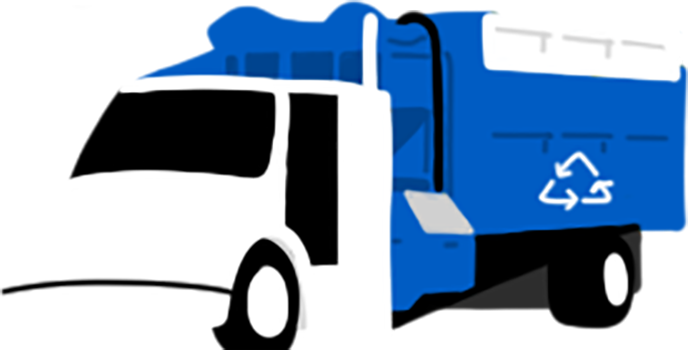
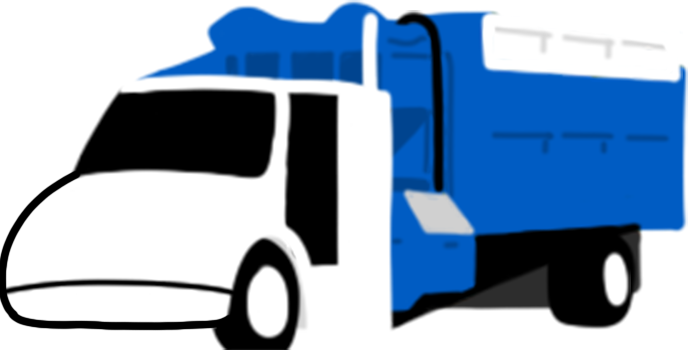
added try again screen & finished "game" functions

diff --git a/sketch.js b/sketch.js
@@ -4,6 +4,7 @@ let binR;
 let binT;
 let truckR;
 let truckT;
+let again;
 let house = true;
 let trash = false;
 let recycle = false;
@@ -11,6 +12,10 @@ let trashbin = true;
 let recyclebin = true;
 let driveR = 800;
 let driveT = 800;
+let next = 0;
+let tryagain = false;
+let yes = false;
+let no = false;
 
 function setup() {
   createCanvas(800, 600);
@@ -22,14 +27,16 @@ function preload() {
   binR = loadImage('assets/binR.png')
   binT = loadImage('assets/binT.png')
   truckT = loadImage('assets/truckT.png')
+  truckR = loadImage('assets/truckR.png')
+  again = loadImage('assets/tryagain.png')
 }
 
 function draw() {
   if (house) {
     image(curb,0,0);
-  } else { if (trash) {
+  } else { 
       image(landfill,0,0);
-    }  }
+    } 
 
   if (trashbin) {
     image(binT,326,269);
@@ -37,23 +44,67 @@ function draw() {
   if (recyclebin) {
     image(binR,221,269)
   }
-  if (recycle) {
-    driveR = driveR += 2;
-    console.log('drive')
-  }
+  
   if (trash) {
-    driveT = (driveT += 2)
-  }
-  image(truckR,250,driveR);
-  image(truckT,250,driveT);
+    driveT = (driveT - 3);}
+  if (driveT < 0) {
+    trashbin = false;}
+  if (driveT < -688) {
+    driveT = 800;
+    trash = false;
+    next++;}
+  image(truckT,driveT,250);
 
+  if (recycle) {
+    driveR = (driveR - 3);}
+  if (driveR < 0) {
+    recyclebin = false;}
+  if (driveR < -688) {
+    driveR = 800;
+    recycle = false;
+    next++;}
+  image(truckR,driveR,250);
+
+  if (next >= 2) {
+    house = false;
+    if (driveT < 100 && driveR > 175) {
+    driveR = (driveR - 3);}
+    if (driveT > 0) {
+    driveT = (driveT - 3);}
+    if (driveT < 0 && driveR < 175) {
+      tryagain = true;
+    }
+  }
+
+  if (tryagain) {
+    image(again,250,86)
+  }
+
+  if (yes) {
+    house = true;
+    trash = false;
+    recycle = false;
+    trashbin = true;
+    recyclebin = true;
+    driveR = 800;
+    driveT = 800;
+    next = 0;
+    tryagain = false;
+    yes = false;
+    no = false;
+  }
+  if (no) {
+    //move to end screen ?
+  }
 }
 
 function mousePressed() {
   if (collidePointRect(mouseX,mouseY,221,259,96,130)) {
-    recycle = true;
-  }
+    recycle = true;}
   if (collidePointRect(mouseX,mouseY,326,269,96,130)) {
-    trash = true;
-  }
+    trash = true;}
+  if (collidePointRect(mouseX,mouseY,270,190,80,30)) {
+    yes = true;}
+  if (collidePointRect(mouseX,mouseY,450,190,80,30)) {
+    no = true;}
 }
